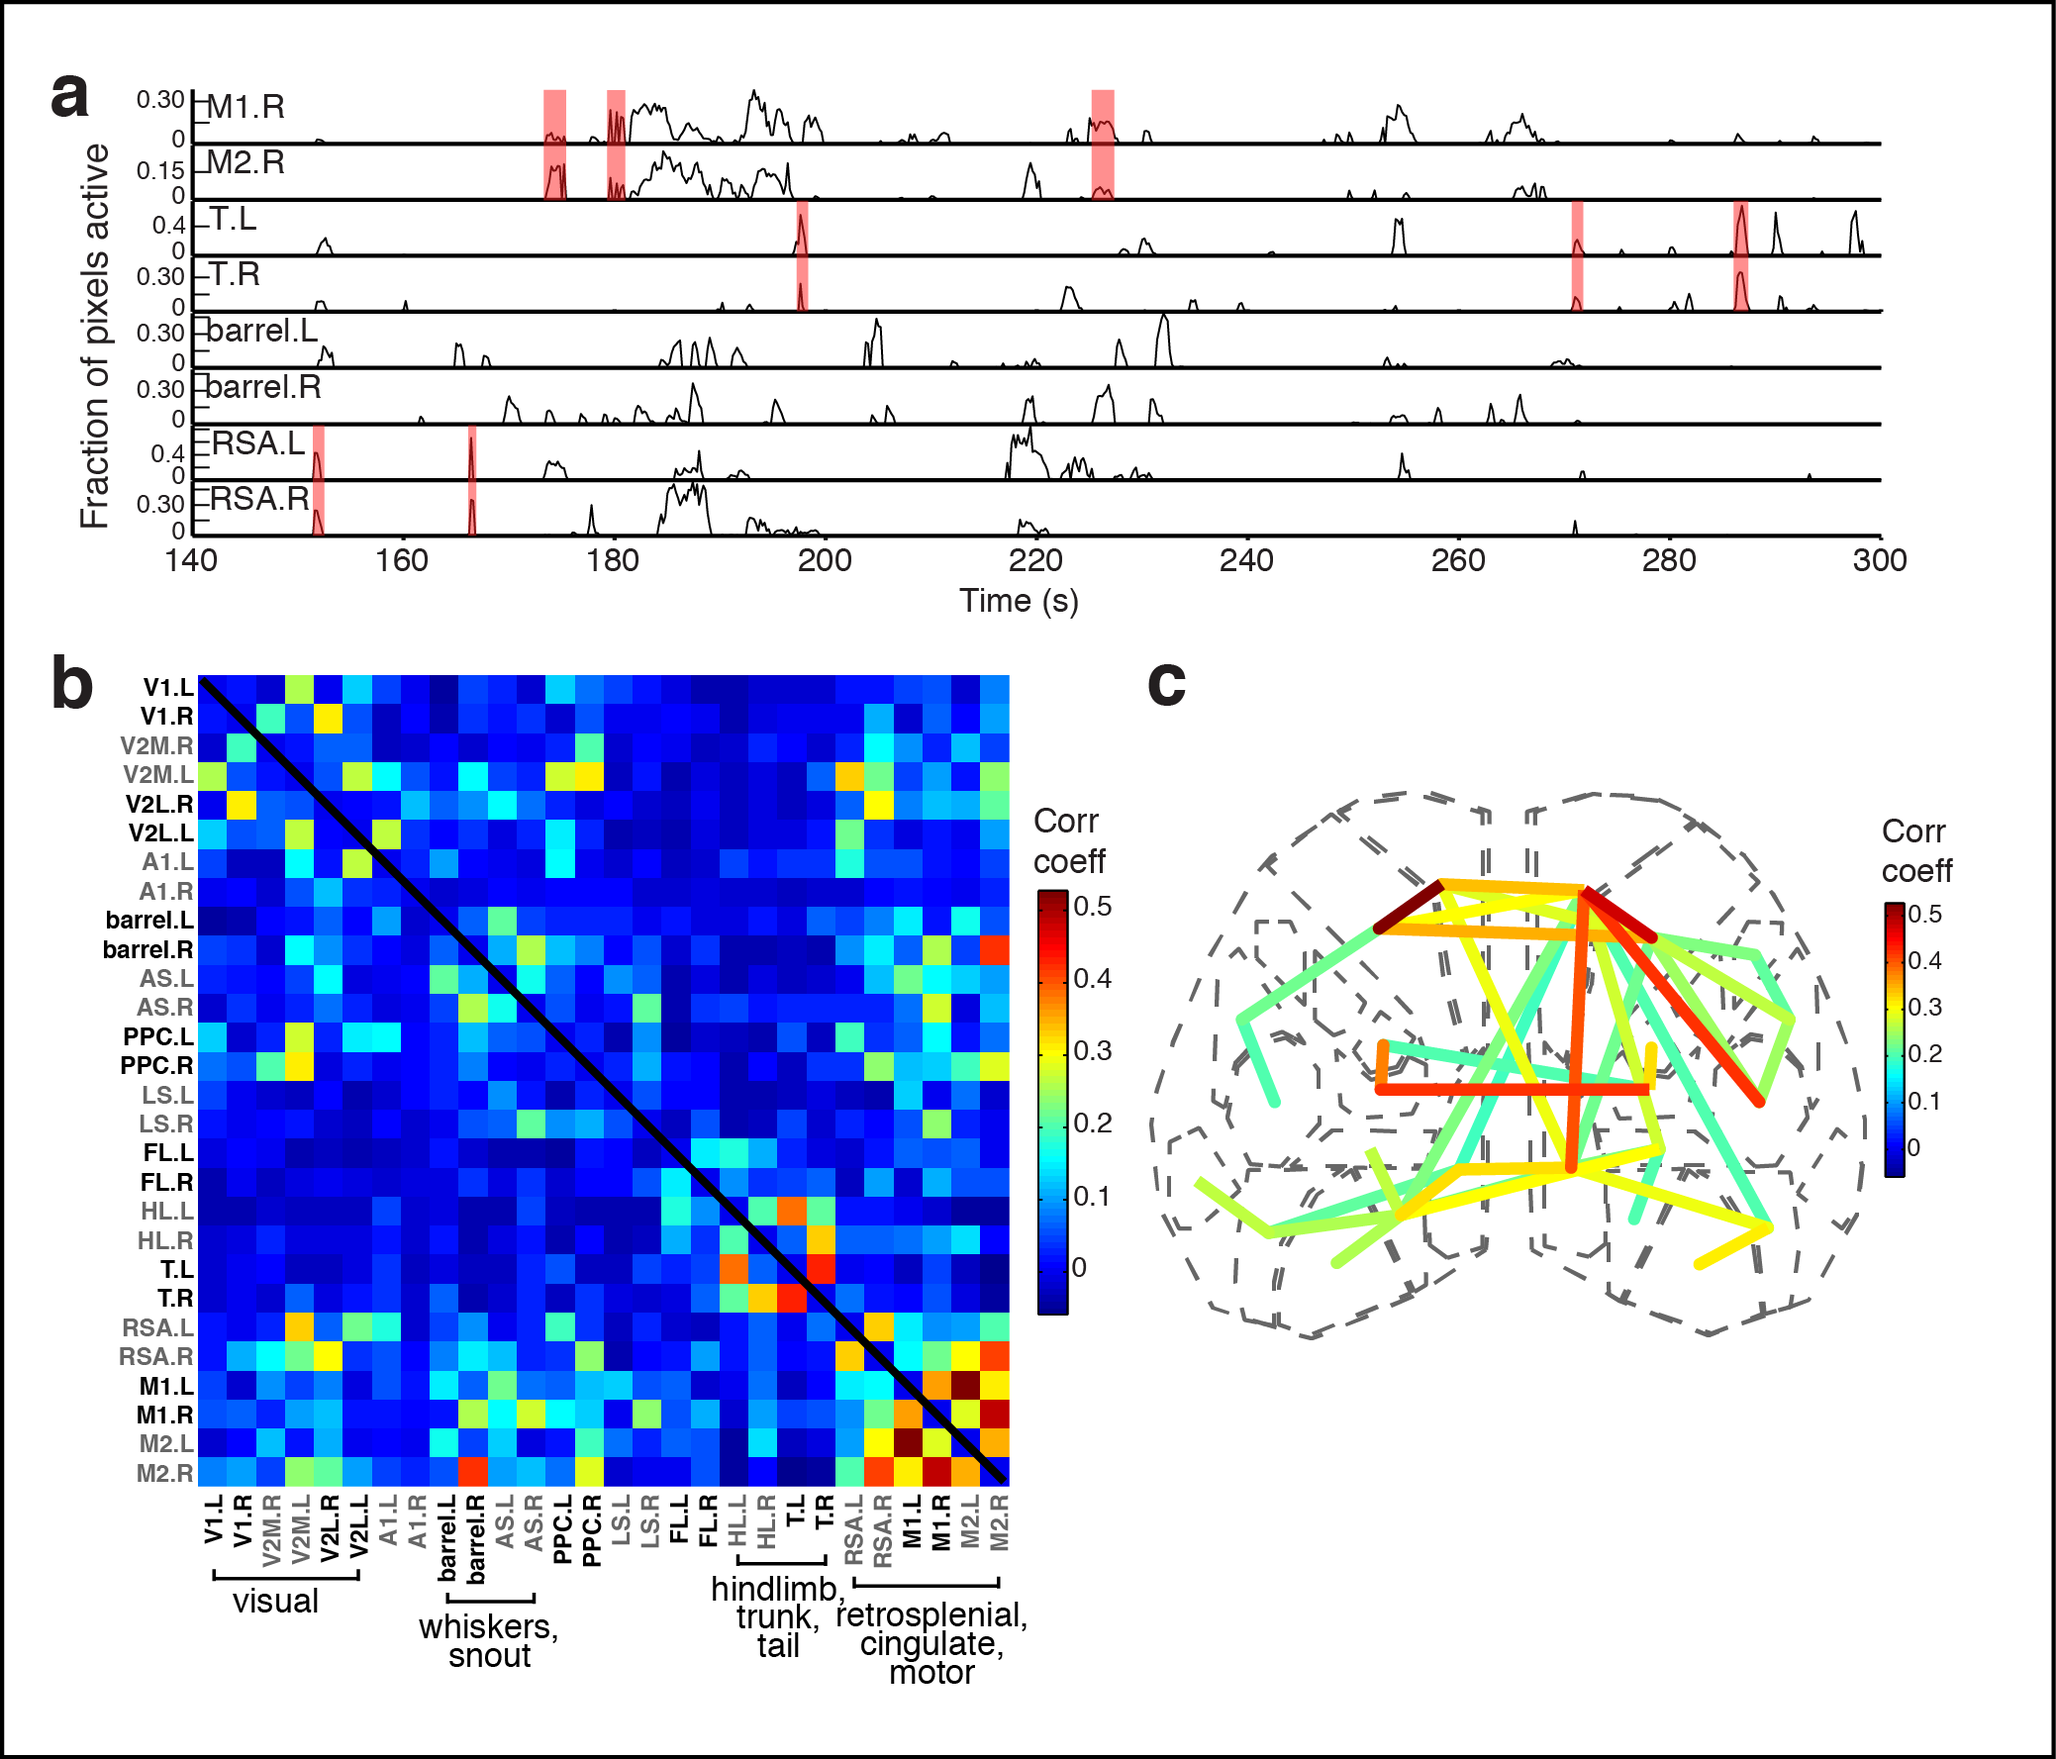
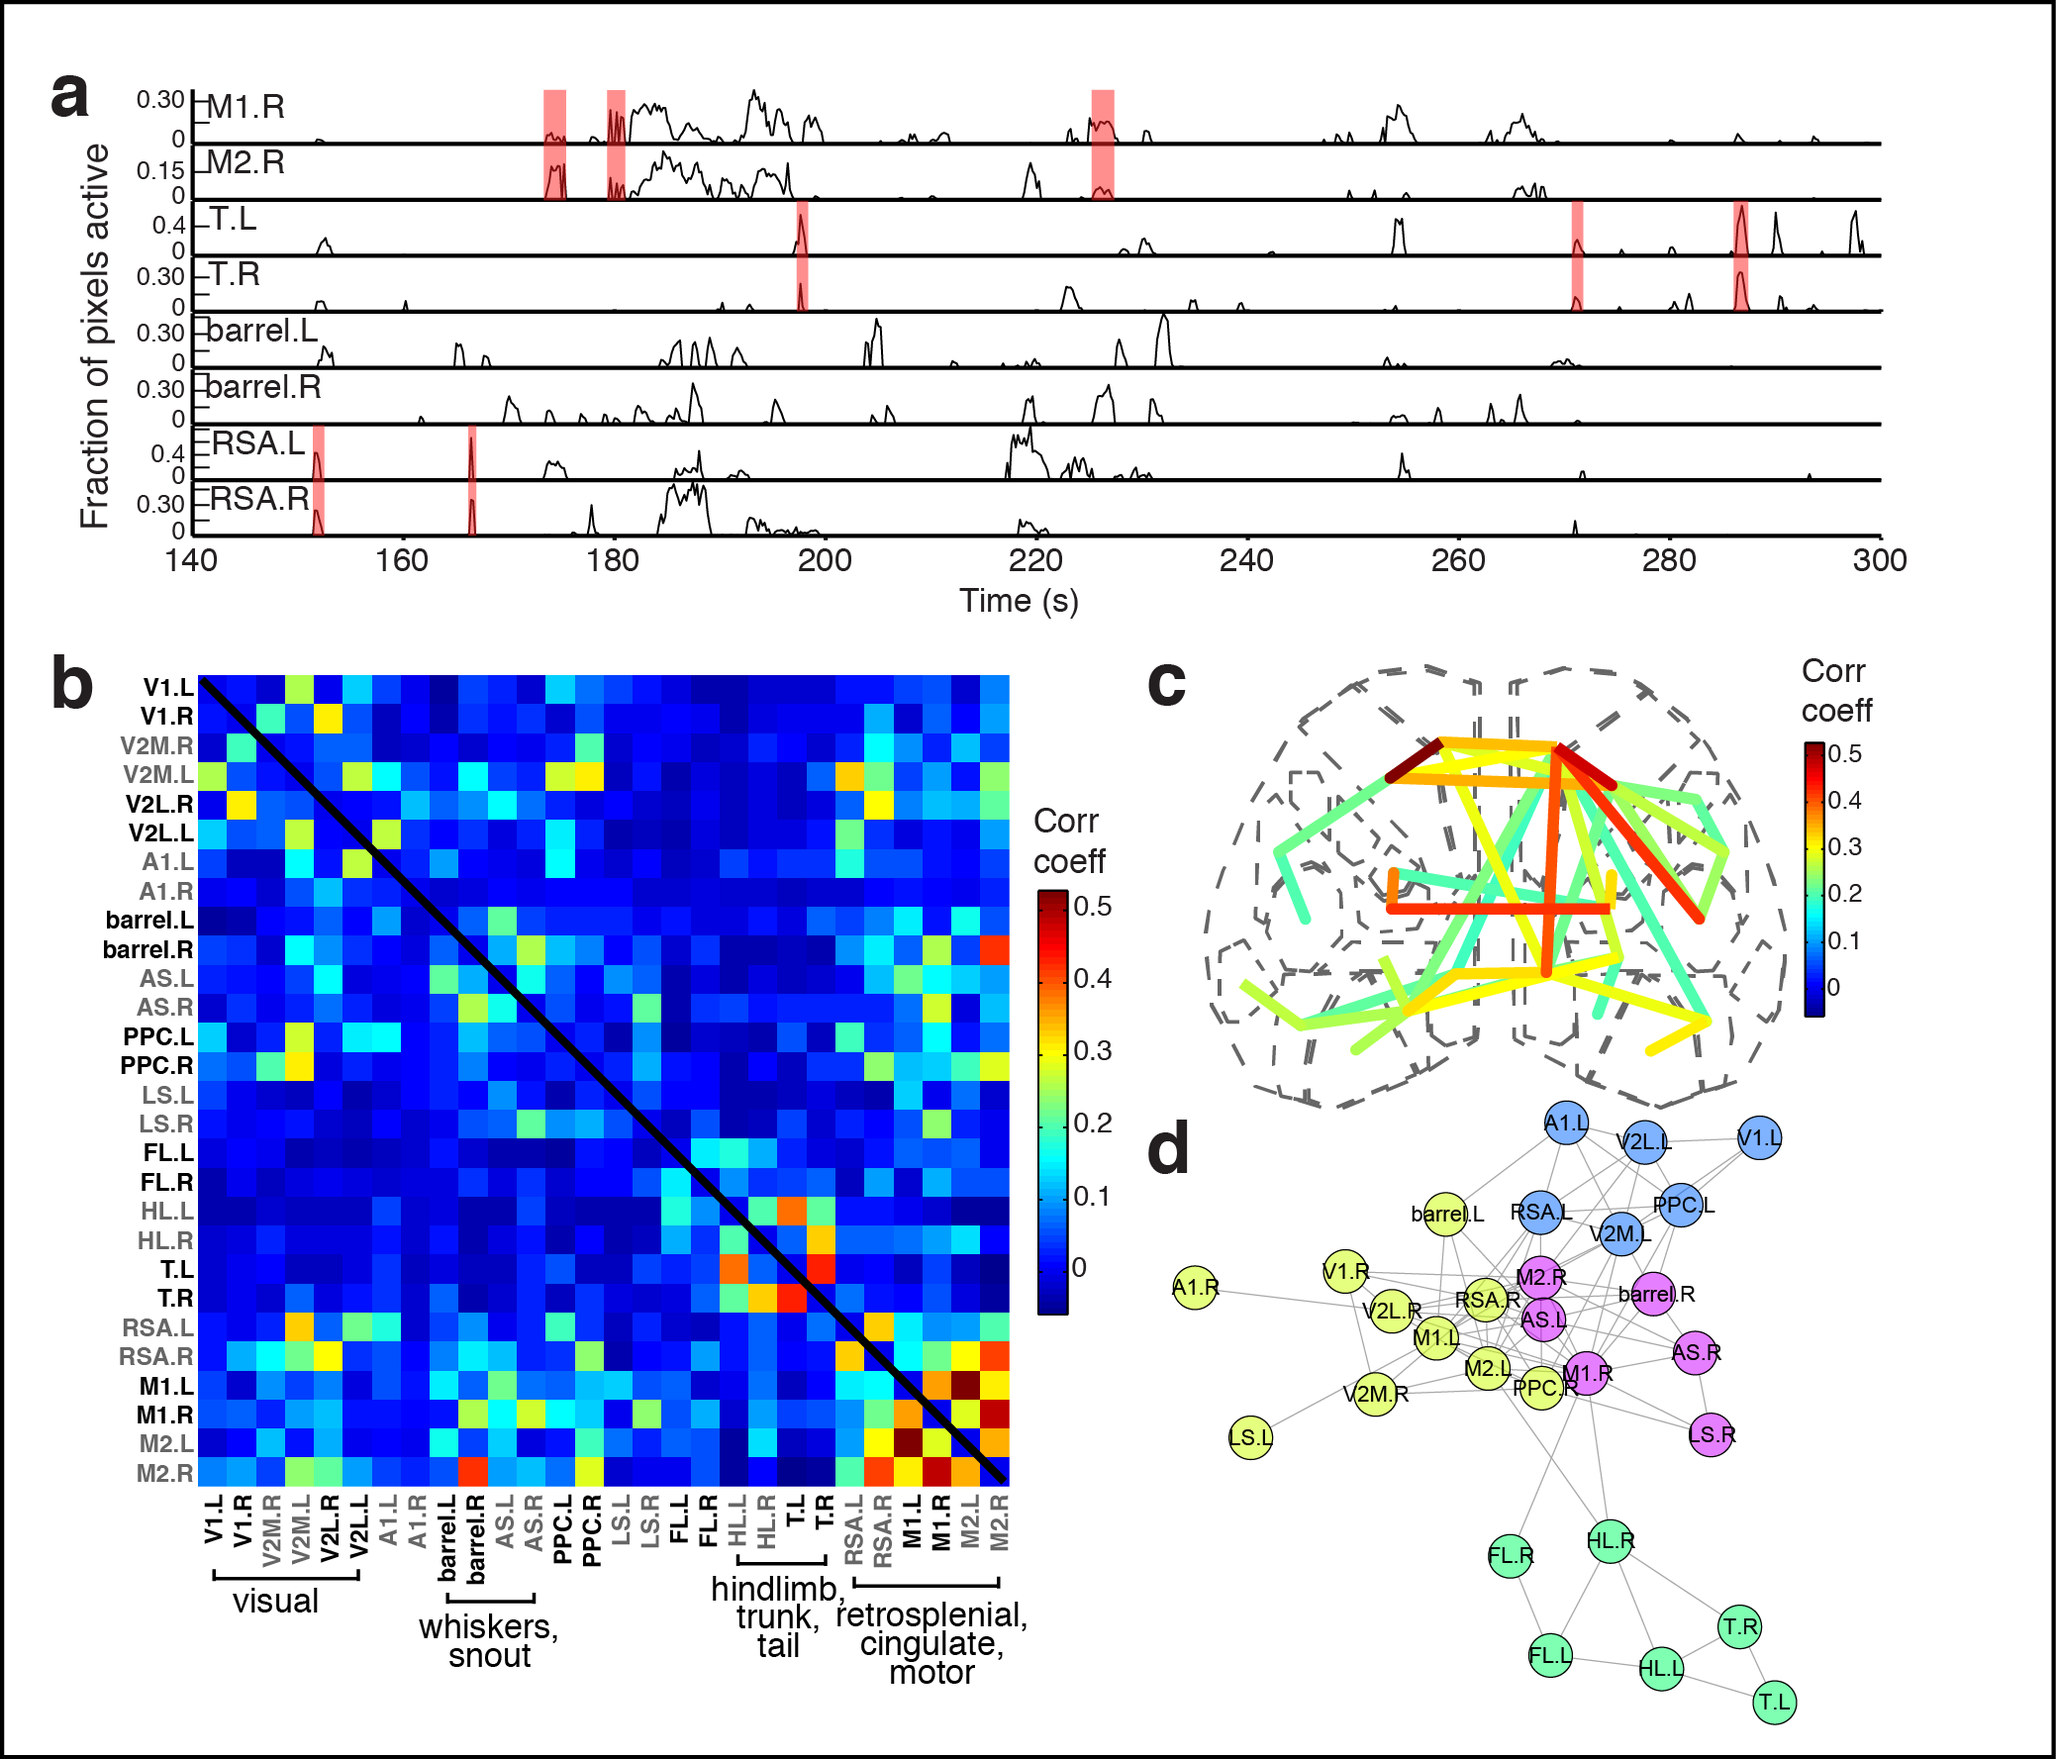
Added graph to fig3. Worked on fig legends.

diff --git a/wholeBrain_main.md b/wholeBrain_main.md
@@ -41,7 +41,7 @@ Neocortical organization consists of cortical modules tiled across the cortical 
 * Calcium imaging-- Konnerth 'waves' in Ent cortex [#Adelsberger:2005]. For visual cortex, domains activity in extrastriate cortex (Ackman Nature 2012). But S1-- [#Golshani:2009] work in later postnatal-- but activity not obeying domains in barrel cortex-- problem with spatial sampling in the xy and the z for this study?
 
 
-![**Figure 1.** Calcium domains throughout neonatal mouse isocortex. **a** Experimental schematic. **b** Single image frame showing calcium domains in both hemispheres at P3 and automatically detected domain masks. **c** Functional activity map at P3. Based on pixel activation frequency from detected domains in a single 10 min recording. Map is overlaid on cortical areal parcellations. Notice localized maxima and minima of functional activity between areas that approximate known anatomical cortical area boundaries and the mirroring of map structure bilaterally. **d** Histograms showing the distribution of spatial diameters and durations for calcium domains.](figure1.png)
+![**Figure 1.** Calcium domains throughout neonatal mouse isocortex. **a** Experimental schematic. **b** Single image frame showing calcium domains in both hemispheres at P3 and automatically detected domain masks. **c** Domain centroid positions for 10 min recording. Points are overlaid on a normalized pixel activation frequency map and primary sensory areas determined by thalamocortical inputs at P7 are outlined in red. Notice rows of whisker barrels are evident in the structure of domain centroid positions. **d** Functional activity map at P3. Based on pixel activation frequency from detected domains in a single 10 min recording. Map is overlaid on cortical areal parcellations. Notice localized maxima and minima of functional activity between areas that approximate known anatomical cortical area boundaries and the mirroring of map structure bilaterally. **e** Histograms showing the distribution of spatial diameters and durations for calcium domains. **f** Domain duration map.](figure1.png)
 
 metric | mean  | min  | max    | unit                  
 ------------- | ----- | ---- | ------ | --------------------  
@@ -64,7 +64,7 @@ frequency     | 2.9   |      |        | domains/sec/hemisphere
 
 <!--- * Each hemisphere 'training' the other one in preparation for behaviorally relevant sensory-motor imitations '[[mirror_neurons]]' hypothesis? --->
 
-![**Figure 2.** Cortical domain activity exhibits bilateral symmetry. **a** Examples of domains exhibiting spatially symmetric activations. Notice most timepoints contain a mixture of symmetric and asymmetric domain activations. **b** Hemispheric domain centers of mass for coactive frames in a recording along medial-lateral (ML) and anterior-posterior (AP) extents. Bottom left panels show the periods indicated by black bars at expanded view. Pearson's correlation: ML, p = 1.1591e-28; AP, p = 7.0982e-07. **d** Hemispheric autocorrelation and cross-correlation functions for cortical activity at all and short time lags. Notice the peaks above gaussian distributed noise (blue traces).](figure2.png)
+![**Figure 2.** Cortical domain activity exhibits bilateral symmetry. **a** Examples of domains exhibiting spatially symmetric activations. Notice most timepoints contain a mixture of symmetric and asymmetric domain activations. **b** Cortical active fraction timecourses for both hemispheres. **c** Hemispheric domain centers of mass for coactive frames in a recording along medial-lateral (ML) and anterior-posterior (AP) extents. Bottom left panels show the periods indicated by black bars at expanded view. Pearson's correlation: ML, p = 1.1591e-28; AP, p = 7.0982e-07. **d** Hemispheric autocorrelation and cross-correlation functions for cortical activity at all and short time lags. Notice the peaks above gaussian distributed noise (blue traces).](figure2.png)
 
 
 
@@ -80,18 +80,6 @@ Looking at the above plot showing lags from [–1000, 1000] frames which is ± 2
 
 
 
-
-## Cortical domain activity is state dependent
-
-* EEG slow oscillations not detectable until P10 in rodent.
-* Previously demonstrated that general anesthesia abolishes spontaneous activity in visual system [#Ackman:2012]. 
-* What about ongoing activity in other cortical areas during early brain development? Surgical procedure relevance.
-* No population calcium activity found during gen'l anesthesia, only slow traveling waves.
-* During anesthesia induction, rapid (<30 s) knock down of discrete domain activity (P3 mouse <120518_09.tif>). Cingulate, retrosplenial activations the last to go-- default mode/resting state network areas last.
-<120518_09_mjpeg.mov>
-
-
-![**Figure 3.** Cortical domains are state dependent. **a** Experimental schematic. Red light illumination measured with a photodiode (PD) was used to monitor motor activity. **b** dF/F image sequence showing cortical domain activity before and after isoflurane anesthesia within a single recording. **c** Cortical activity (active fraction) in each hemisphere after onset of gas anesthetic. **e** Cortical activity and coincident motor activity signals. Moving averages of cortical and motor activity at 10 s and >70 s windows. **f** Single frame domain masks for times indicated in **e**. **g** Autocorrelation and cross-correlation functions for cortical and motor activity for the whole recording or during just the active-motor-period. Notice the correlation between cortical and motor activity above random noise and that motor activity generally follows cortical activity (shift towards right).](figure3.png)
 
 
 
@@ -109,11 +97,34 @@ lenActvFraction>0 | fracCorr | timeCorr_s | fracCorrPos | timeCorrPos_s | fracCo
 
 ## Developing cortical networks consist of distinct modules.
 
-![**Figure 4.** Subnetworks in developing isocortex. **a** Areal trace examples. **b** Correlation matrix of domain activity among cortical areas. **c** Graph.](figure4.png)
+![**Figure 3.** Subnetworks in developing isocortex. **a** Areal trace examples. Synchronized activations between hemispheres indicated by red links. **b** Correlation matrix of domain activity among cortical areas. Colormap indicates Pearson's r correlation coefficient values. **c** Map of cortical area associations for r > 0.2. **d** Graph of functional connections for r > 0.1. Community structure detected with hierarchical clustering are indicated in 4 colors. Notice that S1-limb/body regions form a distinct subgraph (green).](figure3.png)
 
 
+
+## Cortical domain activity is state dependent
+
+* EEG slow oscillations not detectable until P10 in rodent.
+* Previously demonstrated that general anesthesia abolishes spontaneous activity in visual system [#Ackman:2012]. 
+* What about ongoing activity in other cortical areas during early brain development? Surgical procedure relevance.
+* No population calcium activity found during gen'l anesthesia, only slow traveling waves.
+* During anesthesia induction, rapid (<30 s) knock down of discrete domain activity (P3 mouse <120518_09.tif>). Cingulate, retrosplenial activations the last to go-- default mode/resting state network areas last.
+<120518_09_mjpeg.mov>
+
+
+![**Figure 4.** Cortical domains are state dependent. **a** Experimental schematic. Red light illumination measured with a photodiode (PD) was used to monitor motor activity. **b** Cortical activity (active fraction) in each hemisphere after onset of gas anesthetic. **c** Cortical activity and coincident motor activity signals. Gray shading indicates active and quiet motor periods determined by the half-rise and decay times from peak in the low pass filtered motor signal. Active pixel fraction traces for motor (M1,M2), somatosensory (HL,FL,T; barrel), and visual (V1,V2) cortex shown at bottom of panel. Red links show synchronized motor movements and brain activity with different cortical regions. **d** Single frame domain masks for times indicated in **c**. **e** Autocorrelation and cross-correlation functions for motor and all cortical activity or just S1-limb/body and motor cortex regions. Notice the general negative correlation between motor activity and all cortex activity signals (r = -0.1368, p = 5.1919e-14) and the high positive correlation between motor and S1-limb/body signals (r = 0.3019, p = 2.7861e-64). **f** Pixel activation frequency maps during quiet and active motor periods.](figure4.png)
+
+Low pass filtered Moving averages of cortical and motor activity at 10 s and >70 s windows. 
 
 # Conclusions
+
+* Neural population activity constitutes discrete spatial and temporal activations among developing cortical areas
+* Cortical activity exhibits symmetrical spatial and temporal activations across the hemispheres
+*  
+* Population activity in developing cortex depends motor activity state
+* 
+
+
+* Population activity in developing cortex is not random-- it exhibits distinct structure in space and time.
 
 * **Ongoing activity in developing cortex is not random**-- specifically coordinated in space and time within and among cortical areas between the hemispheres
 * ~~BRAIN initiative (for cover letter to the editor)~~
@@ -166,8 +177,19 @@ lenActvFraction>0 | fracCorr | timeCorr_s | fracCorrPos | timeCorrPos_s | fracCo
 --->
 
 
+<!---Figure 3 metadata
+* active fraction traces: 
+* corr matrix: orig: 120518_07_2013-09-11-225029_d2rcorrMatrix20130912-001431_fig.ai
+	* update 2013-10-03 11:04:39:
+		* 120518_07_2013-09-11-225029_d2rcorrMatrix20130930-111018.ai
+		* 120518_07_2013-09-11-225029_d2rcorrMatrix20130930-111018.eps
+	* update 2013-10-23 14:31:37:
+		* 120518_07_2013-10-18_AllgoodcorrMatrix20131018-154625.eps
+* corr graph: 
+	* 120518_07_2013-10-18_AllgoodCorrGraph20131021-144258.eps
+--->
 
-<!---Figure 3 metadata 
+<!---Figure 4 metadata 
 * Isoflurane contour maps:
 
 ### Cortical activity and motor activity is periodic
@@ -192,15 +214,3 @@ lenActvFraction>0 | fracCorr | timeCorr_s | fracCorrPos | timeCorrPos_s | fracCo
 		* 120518_07_connComponents_BkgndSubtr-60px_noWatershed-20130327-151022_d2rActivityMapFigContour20131016-163945-20131023_MotorActive_eps.png
 --->
 
-
-<!---Figure 4 metadata
-* active fraction traces: 
-* corr matrix: orig: 120518_07_2013-09-11-225029_d2rcorrMatrix20130912-001431_fig.ai
-	* update 2013-10-03 11:04:39:
-		* 120518_07_2013-09-11-225029_d2rcorrMatrix20130930-111018.ai
-		* 120518_07_2013-09-11-225029_d2rcorrMatrix20130930-111018.eps
-	* update 2013-10-23 14:31:37:
-		* 120518_07_2013-10-18_AllgoodcorrMatrix20131018-154625.eps
-* corr graph: 
-	* 120518_07_2013-10-18_AllgoodCorrGraph20131021-144258.eps
---->
